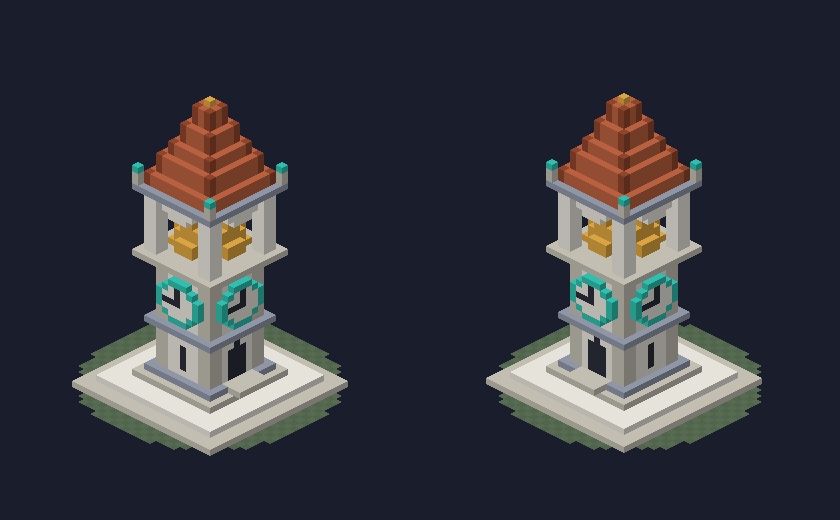
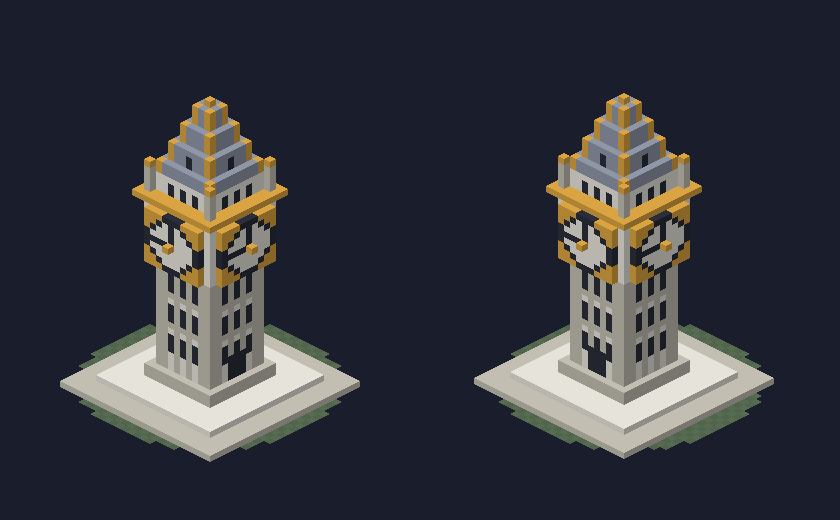
Clock tower after Big Ben, steampunk steam engine
The bell tower becomes a clock tower after Big Ben: slim Gothic shaft with
vertical panels, a wider clock stage with gold-framed dials on every side,
an arcaded belfry with pinnacles and a tall slate spire with gold edges.
The gear tower becomes a steam engine: riveted copper boiler in brass bands,
a big brass cog on the front meshing with a smaller one, pipes and valve
wheels, gauge, portholes, furnace, brass dome and gallery, smokestack and
steam. Shown as Clock tower and Steam engine; ids unchanged.

Claude-Session: https://claude.ai/code/session_01LyoKTPh3fW8ms3Pd1KaM3a

Changed region(s): [[0.0619, 0.1846, 0.4333, 0.8923], [0.5881, 0.1846, 0.8976, 0.8], [0.5571, 0.7077, 0.9286, 0.8923]]

diff --git a/src/marks-lib.js b/src/marks-lib.js
@@ -3,14 +3,14 @@ export const MATS = ["stone","stone2","trim","metal","roof","roof2","glass","woo
 export const LIBRARY = {
[15 lines of base64/hex data omitted]

diff --git a/CLAUDE.md b/CLAUDE.md
@@ -60,7 +60,7 @@ The garden panel (docked right, hidden and shown from the top bar) starts with t
 - First open with an empty database loads `src/demo.js` (indented outlines per topic, links, and the garden with each island's `after`/`from`); Menu → Reset demo data reloads it. Add to the demo when a feature needs data to try. The Workshop island's topics have `fill` in their garden settings: pretend ideas that count toward growth on the beta only, so landmarks show at every tier. `tests/run15-beta.mjs` covers it; `start(name, port, { channel: "beta" })` builds a test as the beta.
 
 ## Landmarks
-`tools/landmarks/`: `BRIEF.md` (give this to whoever makes landmarks), `kit.mjs`, `render.mjs` (`node tools/landmarks/render.mjs <file.mjs> <out.png>`), `bake.mjs` (library → `src/marks-lib.js`), and `library/` with 22 landmarks: abacus, atom, bell tower, books, camera, cooking pot, DNA helix, easel, flask, gear tower, globe, lectern, lighthouse, observatory, quill, radio dish, ruined temple, scales, seated scholar, synth, trophy, yarn. Bell tower and gear tower were redone 2026-11-16 (open belfry with the bell in view; a column of flat cogs). Agreed route: Opus 5.5 on high, two renders per landmark, several per run. Topics draw them (0.12.0, on the beta first); centrepieces are still the four built-in ones. Still to do on the card: his landmark wishlist, .vox import and a file format for his own, library pieces as centrepieces if he wants them, and a skill for making more.
+`tools/landmarks/`: `BRIEF.md` (give this to whoever makes landmarks), `kit.mjs`, `render.mjs` (`node tools/landmarks/render.mjs <file.mjs> <out.png>`), `bake.mjs` (library → `src/marks-lib.js`), and `library/` with 22 landmarks: abacus, atom, books, camera, clock tower, cooking pot, DNA helix, easel, flask, globe, lectern, lighthouse, observatory, quill, radio dish, ruined temple, scales, seated scholar, steam engine, synth, trophy, yarn. Bell tower and gear tower were redone 2026-11-16 at his request: the bell tower after Big Ben (shown as Clock tower), the gear tower steampunk (copper boiler, brass cog on the front, steam; shown as Steam engine). Ids stay `bell-tower` and `gear-tower`. Agreed route: Opus 5.5 on high, two renders per landmark, several per run. Topics draw them (0.12.0, on the beta first); centrepieces are still the four built-in ones. Still to do on the card: his landmark wishlist, .vox import and a file format for his own, library pieces as centrepieces if he wants them, and a skill for making more.
 
 ## Elsewhere (private pages in his Claude account)
 - Roadmap board: artifact `26c36fae-f85e-467b-8dc3-70cfd487c895`, collection `cards`. Fields: title, note, tag (feature, tweak, bug), col (todo, doing, done), order, owner (you, claude, both), fit (which model suits it), source. Writes to existing cards need `ifVersion`. Move cards as work lands; keep his order.

diff --git a/CHANGELOG.md b/CHANGELOG.md
@@ -6,11 +6,11 @@ Every release of Bonsai, newest first. Versions follow `major.minor.patch`: mino
 
 The landmark library comes into the garden.
 
-- A topic that fills its plot now raises one of 22 voxel landmarks: abacus, atom, bell tower, books, camera, cooking pot, DNA helix, easel, flask, gear tower, globe, lectern, lighthouse, observatory, quill, radio dish, ruined temple, scales, seated scholar, synth, trophy and yarn. Pick one under Landmark in the topic's panel; the older shapes are still there below them.
+- A topic that fills its plot now raises one of 22 voxel landmarks: abacus, atom, books, camera, clock tower, cooking pot, DNA helix, easel, flask, globe, lectern, lighthouse, observatory, quill, radio dish, ruined temple, scales, seated scholar, steam engine, synth, trophy and yarn. Pick one under Landmark in the topic's panel; the older shapes are still there below them.
 - A topic with no landmark picked gets one from its name: Physics an atom, Leadership a lectern, Music a synth, Maths an abacus. Anything unrecognised keeps the monument.
 - Landmarks face out from the middle of the island, stand in a wider clearing so trees don't hide them, and shrink to fit on small islands.
 - Weathered stone at 100%; from 130% the wood, glass and the topic's own colour come through, and the trims and metal turn bronze at 160% and gold at 200%.
-- The bell tower and gear tower are redone: the bell hangs in an open belfry where you can see it, and the gear tower is a column of cogs.
+- The bell tower is now a clock tower after Big Ben: a slim Gothic tower with gold-framed dials on every side and a tall slate spire. The gear tower is now a steam engine: a riveted copper boiler with a big brass cog on the front, pipes and valve wheels, a gauge, a brass dome and a smokestack letting off steam.
 - Beta: a Workshop island in the demo whose topics count as full, so a landmark shows at every tier.
 
 ## 0.11.0 — 2026-11-16
